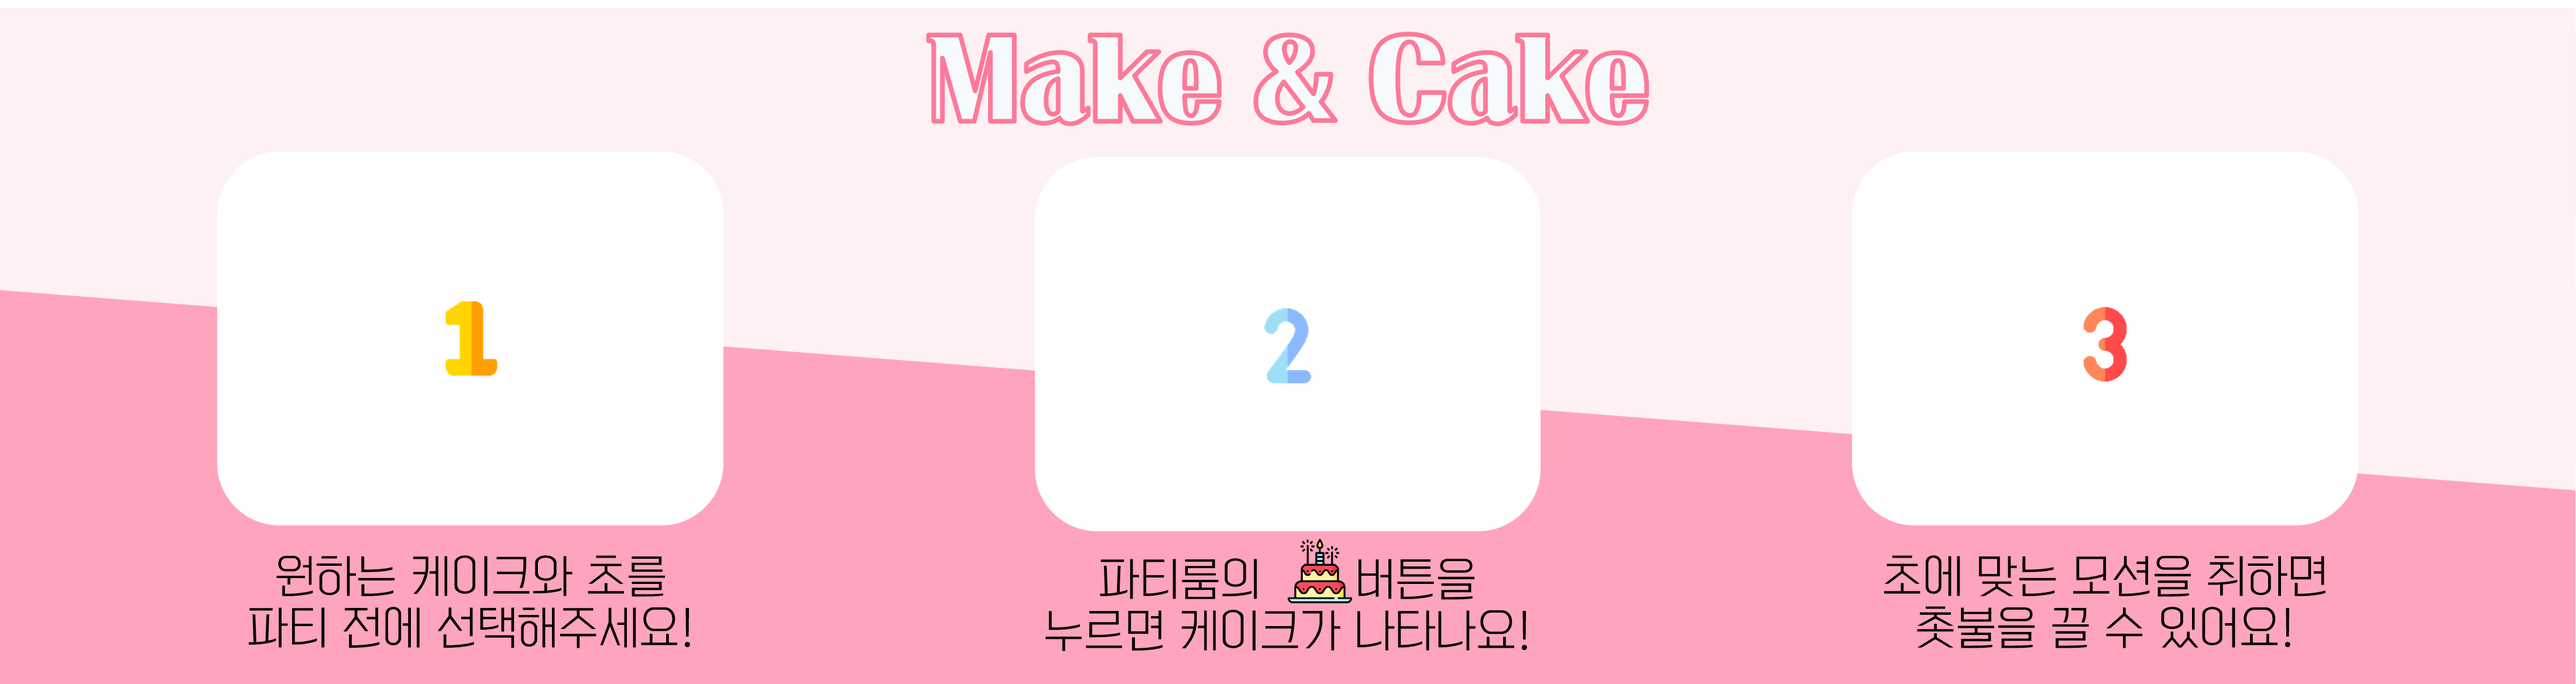
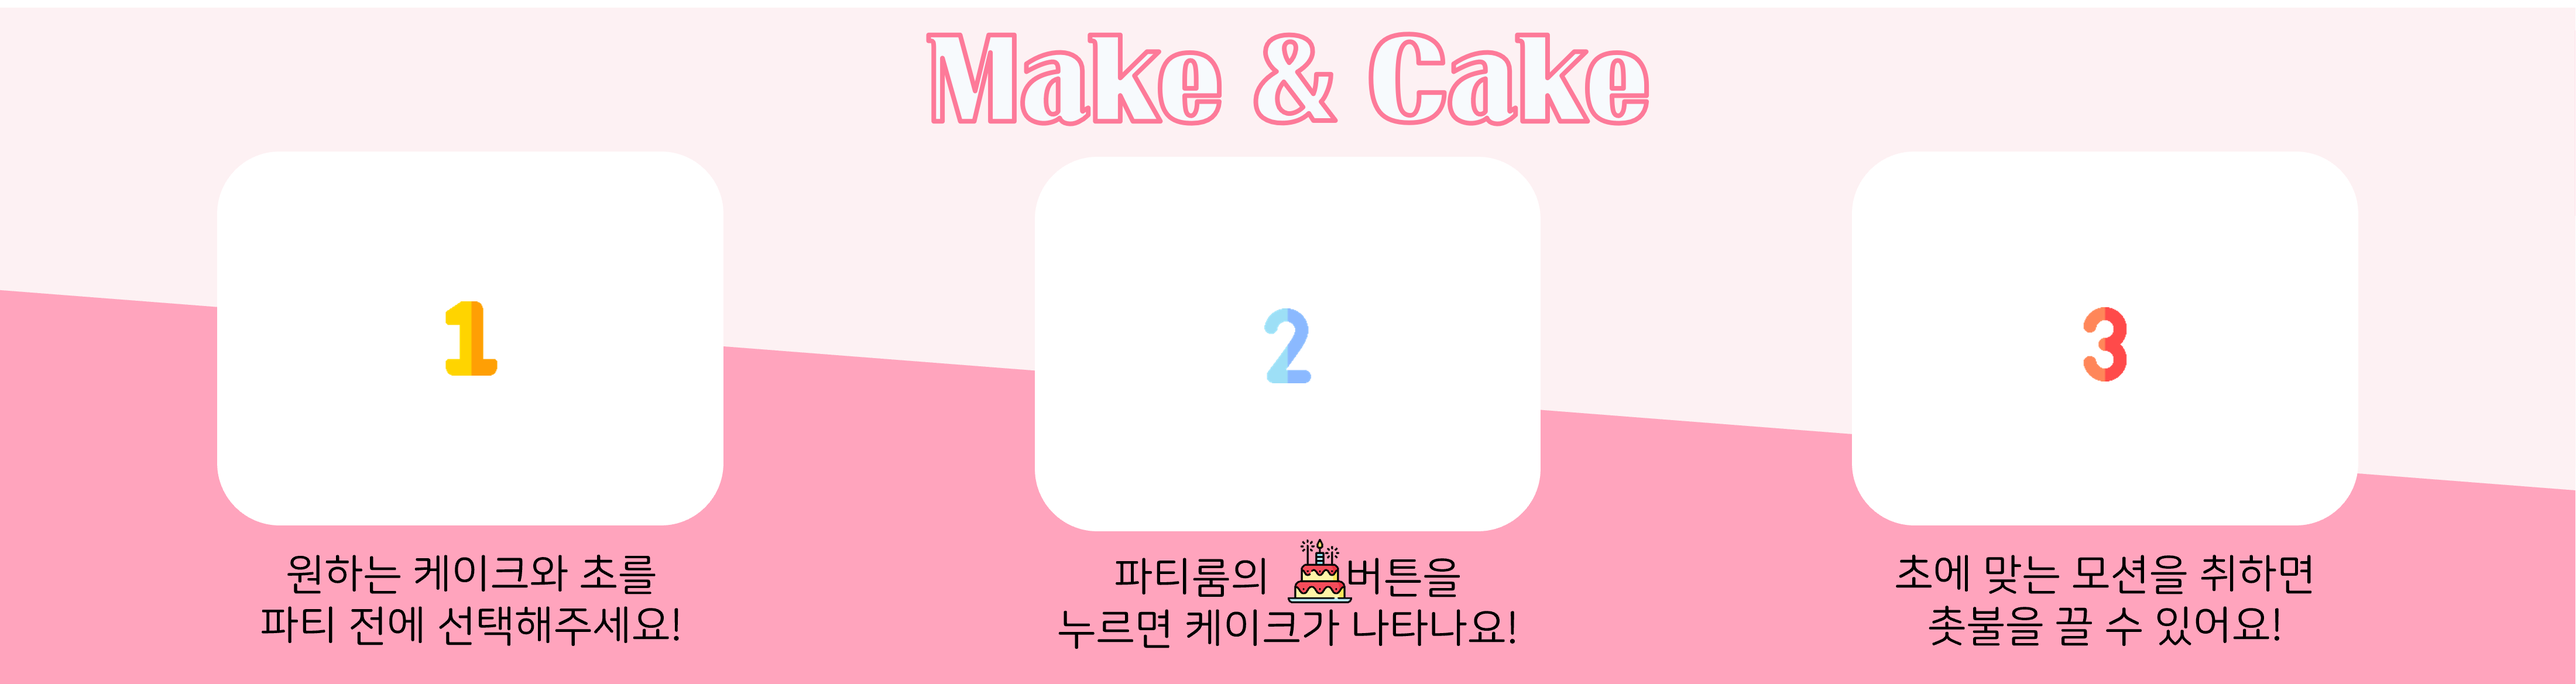
[ETC] subtext 추가 및 수정

Changed region(s): [[0.0934, 0.8007, 0.2802, 0.9547], [0.716, 0.8007, 0.9027, 0.9547], [0.4047, 0.8007, 0.5915, 0.9547]]

diff --git a/frontend/src/pages/HomePage.js b/frontend/src/pages/HomePage.js
@@ -128,6 +128,9 @@ const HomePage = () => {
             <Img>
                 <img src="/subtext4.png" alt="subtext4" style={{width:'70%'}}/>
             </Img>
+            <Img>
+                <img src="/subtext5.png" alt="subtext4" style={{width:'70%'}}/>
+            </Img>
 
             <Modal
                 centered
